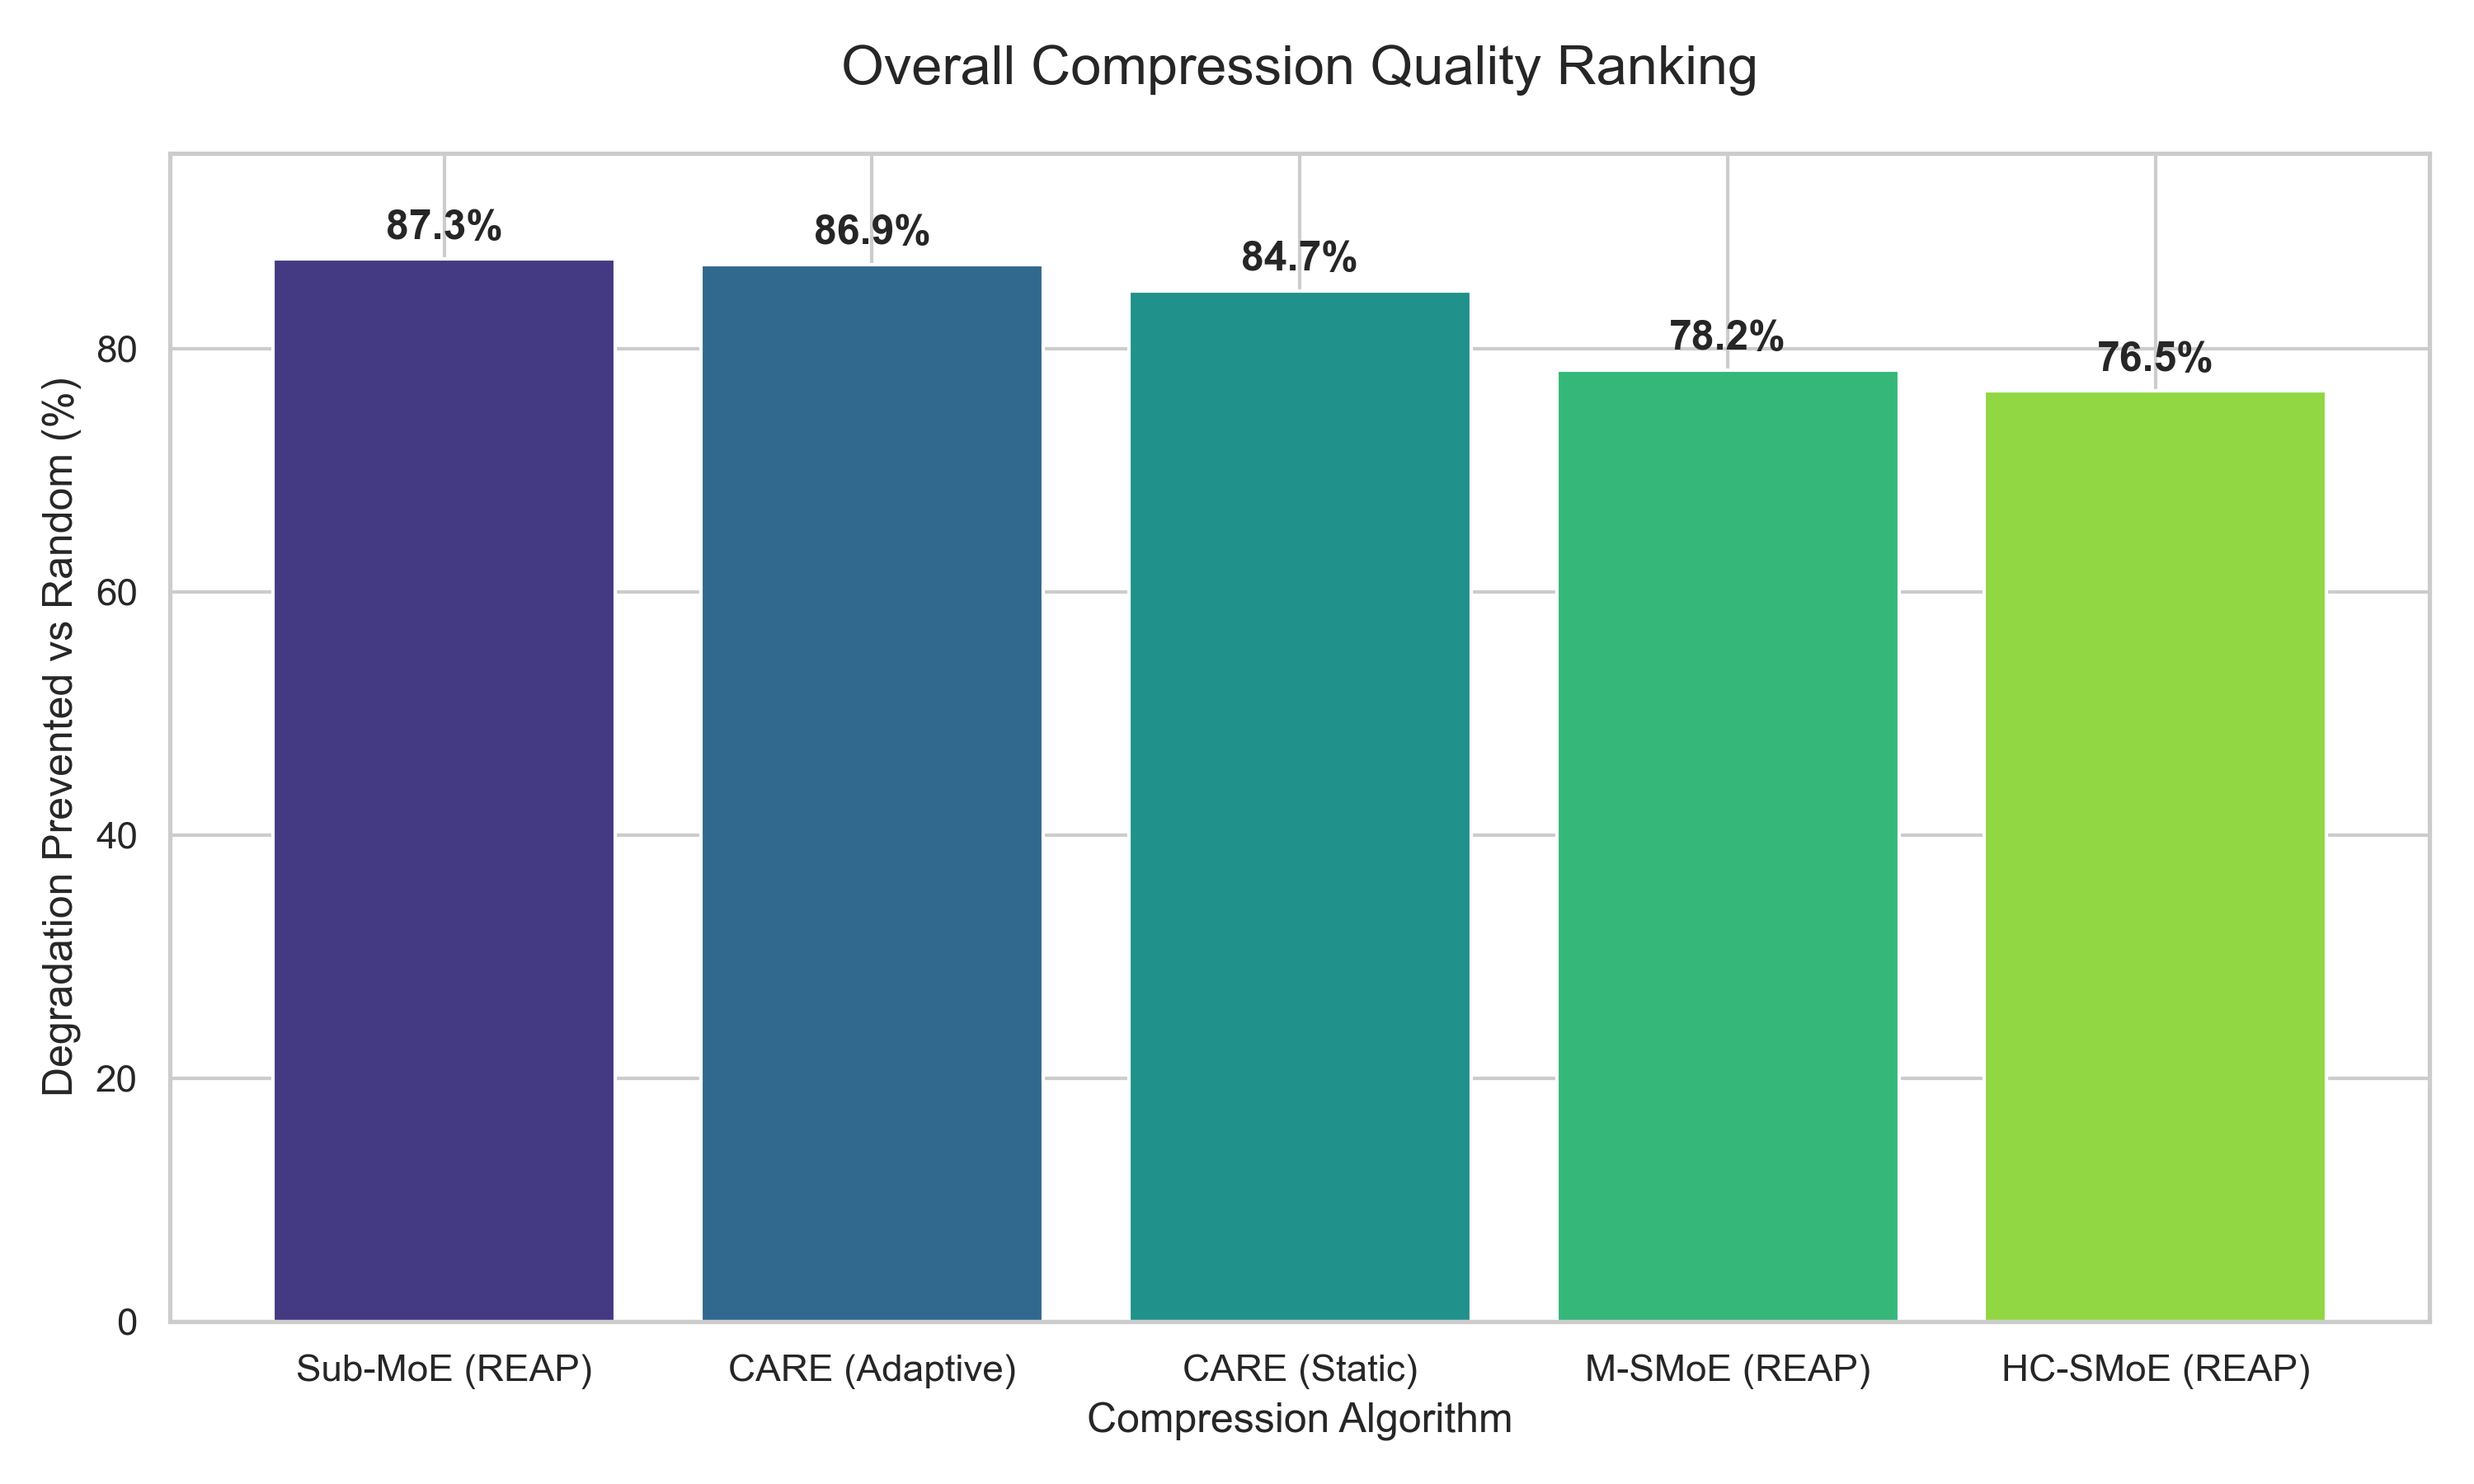
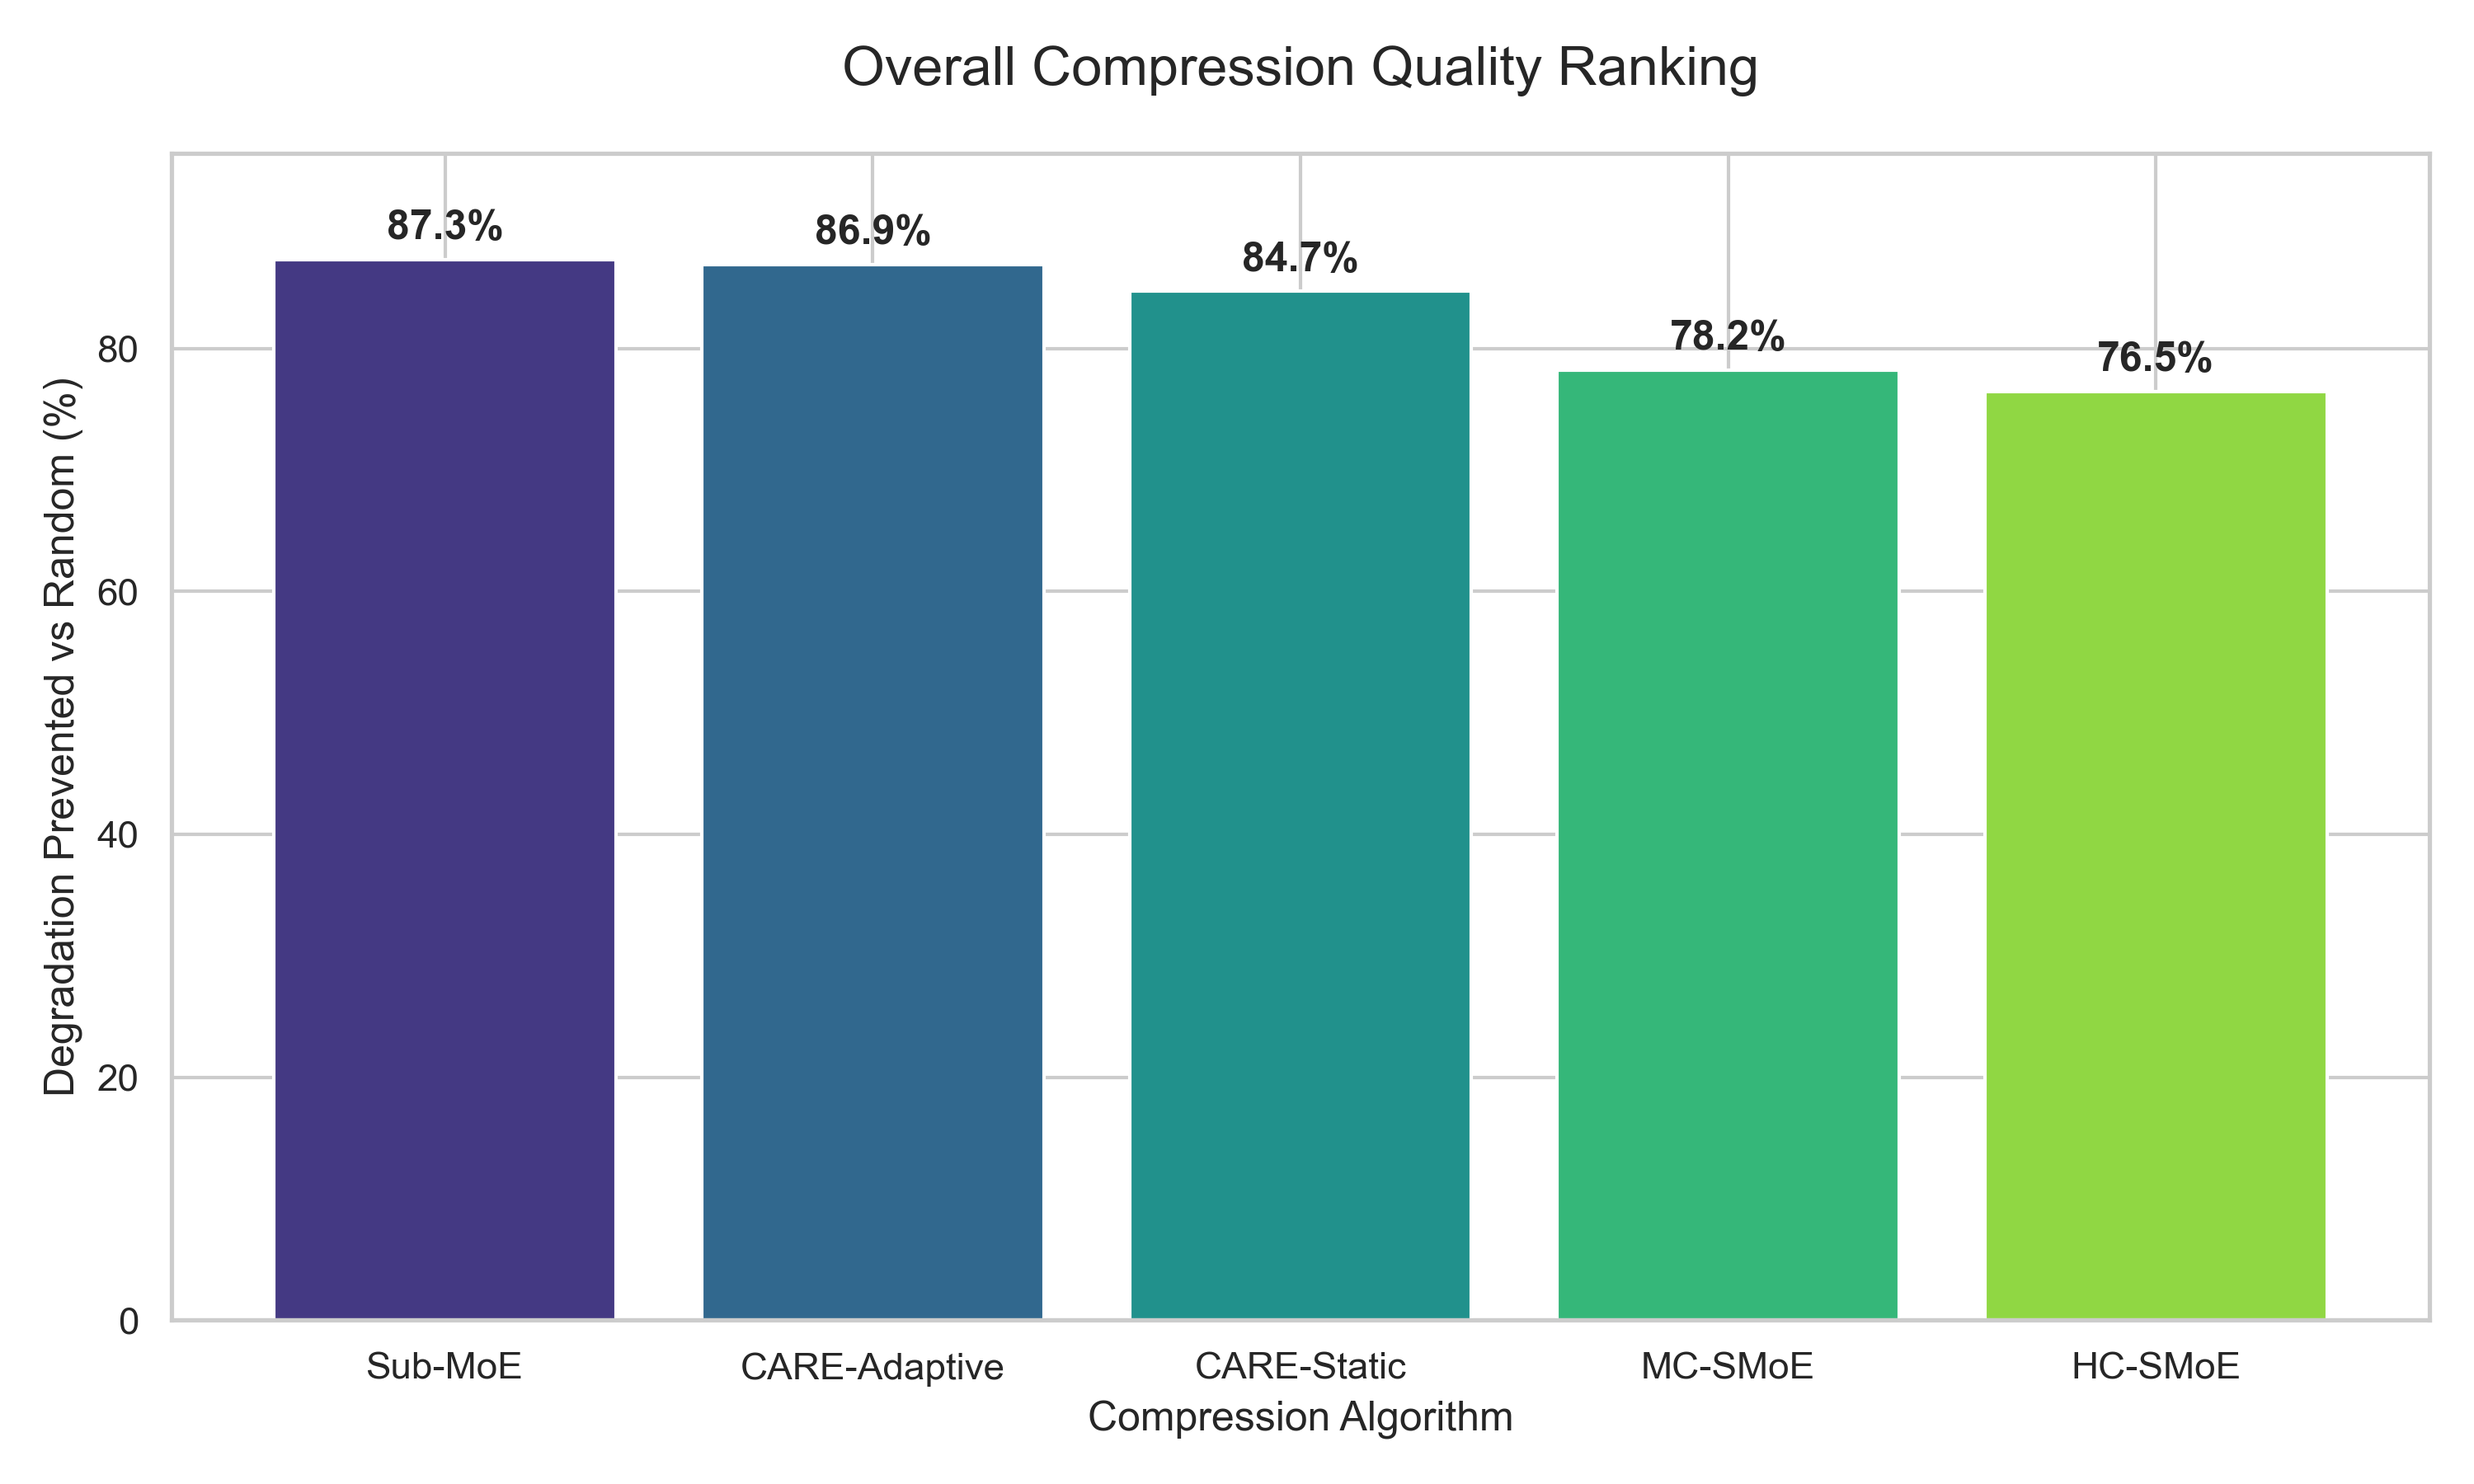
Fix (REAP) and M-SMoE labels in OLMoE benchmark plots

diff --git a/benchmark/OLMoE-1B-7B/plot_ranking.py b/benchmark/OLMoE-1B-7B/plot_ranking.py
@@ -28,11 +28,11 @@ methods = list(scores.keys())
 values = list(scores.values())
 
 pretty_names = {
-    "care_adaptive": "CARE (Adaptive)",
-    "care_static": "CARE (Static)",
-    "sub_moe": "Sub-MoE (REAP)",
-    "m_smoe": "M-SMoE (REAP)",
-    "hc_smoe": "HC-SMoE (REAP)"
+    "care_adaptive": "CARE-Adaptive",
+    "care_static": "CARE-Static",
+    "sub_moe": "Sub-MoE",
+    "m_smoe": "MC-SMoE",
+    "hc_smoe": "HC-SMoE"
 }
 labels = [pretty_names.get(m, m) for m in methods]
 

diff --git a/benchmark/OLMoE-1B-7B/plot_ranking_6_25.py b/benchmark/OLMoE-1B-7B/plot_ranking_6_25.py
@@ -28,11 +28,11 @@ methods = list(scores.keys())
 values = list(scores.values())
 
 pretty_names = {
-    "care_adaptive": "CARE (Adaptive)",
-    "care_static": "CARE (Static)",
-    "sub_moe": "Sub-MoE (REAP)",
-    "m_smoe": "M-SMoE (REAP)",
-    "hc_smoe": "HC-SMoE (REAP)"
+    "care_adaptive": "CARE-Adaptive",
+    "care_static": "CARE-Static",
+    "sub_moe": "Sub-MoE",
+    "m_smoe": "MC-SMoE",
+    "hc_smoe": "HC-SMoE"
 }
 labels = [pretty_names.get(m, m) for m in methods]
 
